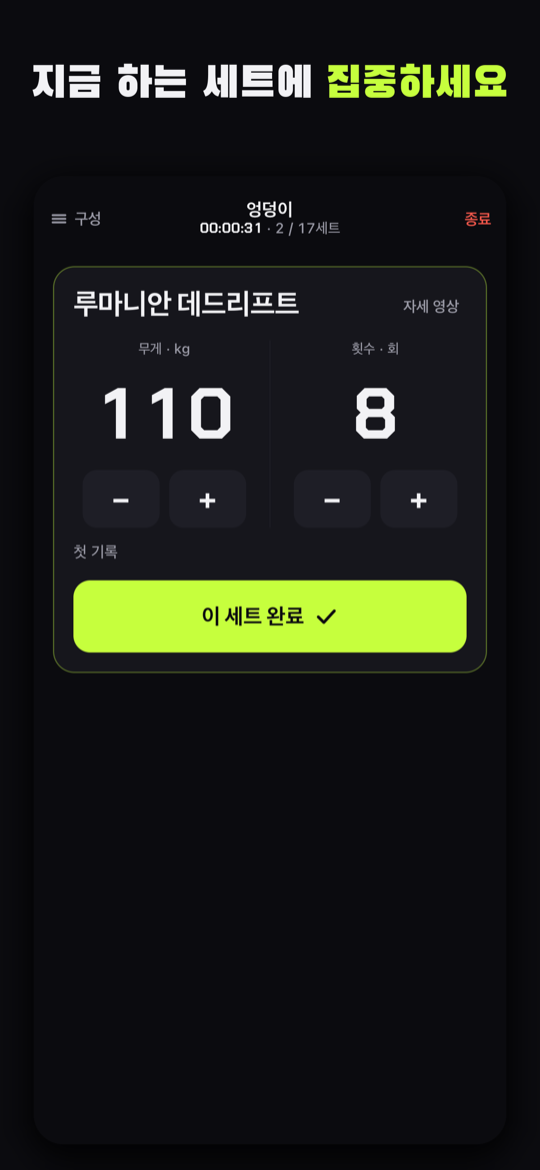
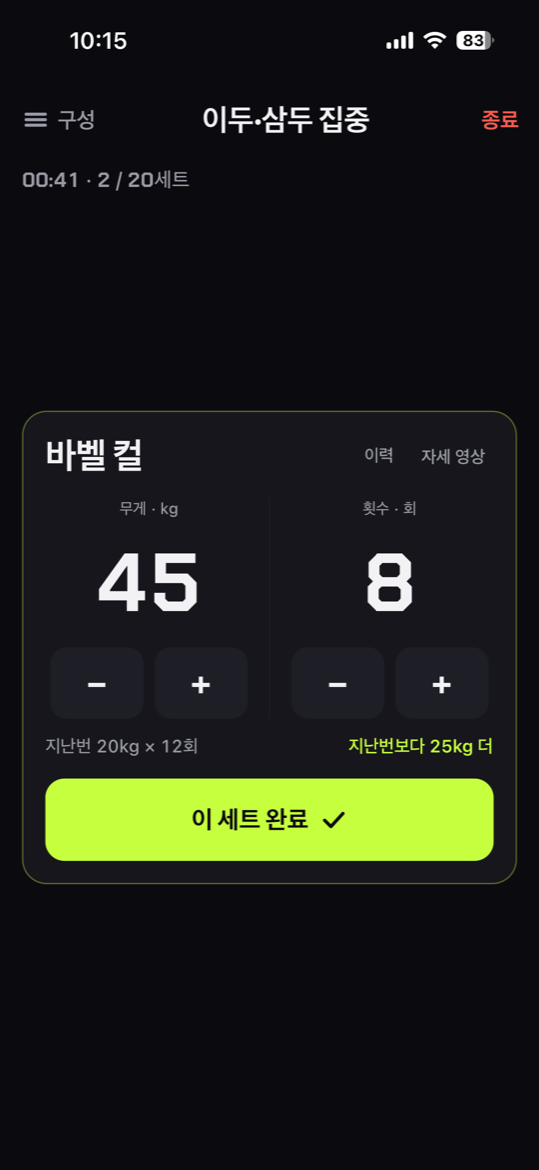
site: 히어로 스크린샷 교체(몰입·휴식, Jay 9/23)

diff --git a/index.html b/index.html
@@ -61,8 +61,8 @@
           <p class="facts">광고 없음 · 결제 없음 · 탭 <span class="num">4</span>개</p>
         </div>
         <div class="frames">
-          <figure class="frame"><img src="assets/01-focus.png" width="540" height="1170" alt="몰입 화면. 루마니안 데드리프트 110kg 8회, 이 세트 완료 버튼" fetchpriority="high"></figure>
-          <figure class="frame"><img src="assets/02-rest.png" width="540" height="1170" alt="휴식 링 화면. 남은 휴식 시간과 준비된 다음 세트" loading="lazy"></figure>
+          <figure class="frame"><img src="assets/01-focus.png" width="540" height="1170" alt="몰입 화면. 바벨 컬 45kg 8회, 지난번보다 25kg 더, 이 세트 완료 버튼" fetchpriority="high"></figure>
+          <figure class="frame"><img src="assets/02-rest.png" width="540" height="1170" alt="휴식 링 화면. 개인 기록 배너, 남은 휴식 54초, 다음 세트 바벨 컬 45kg 8회" loading="lazy"></figure>
         </div>
       </div>
     </section>
